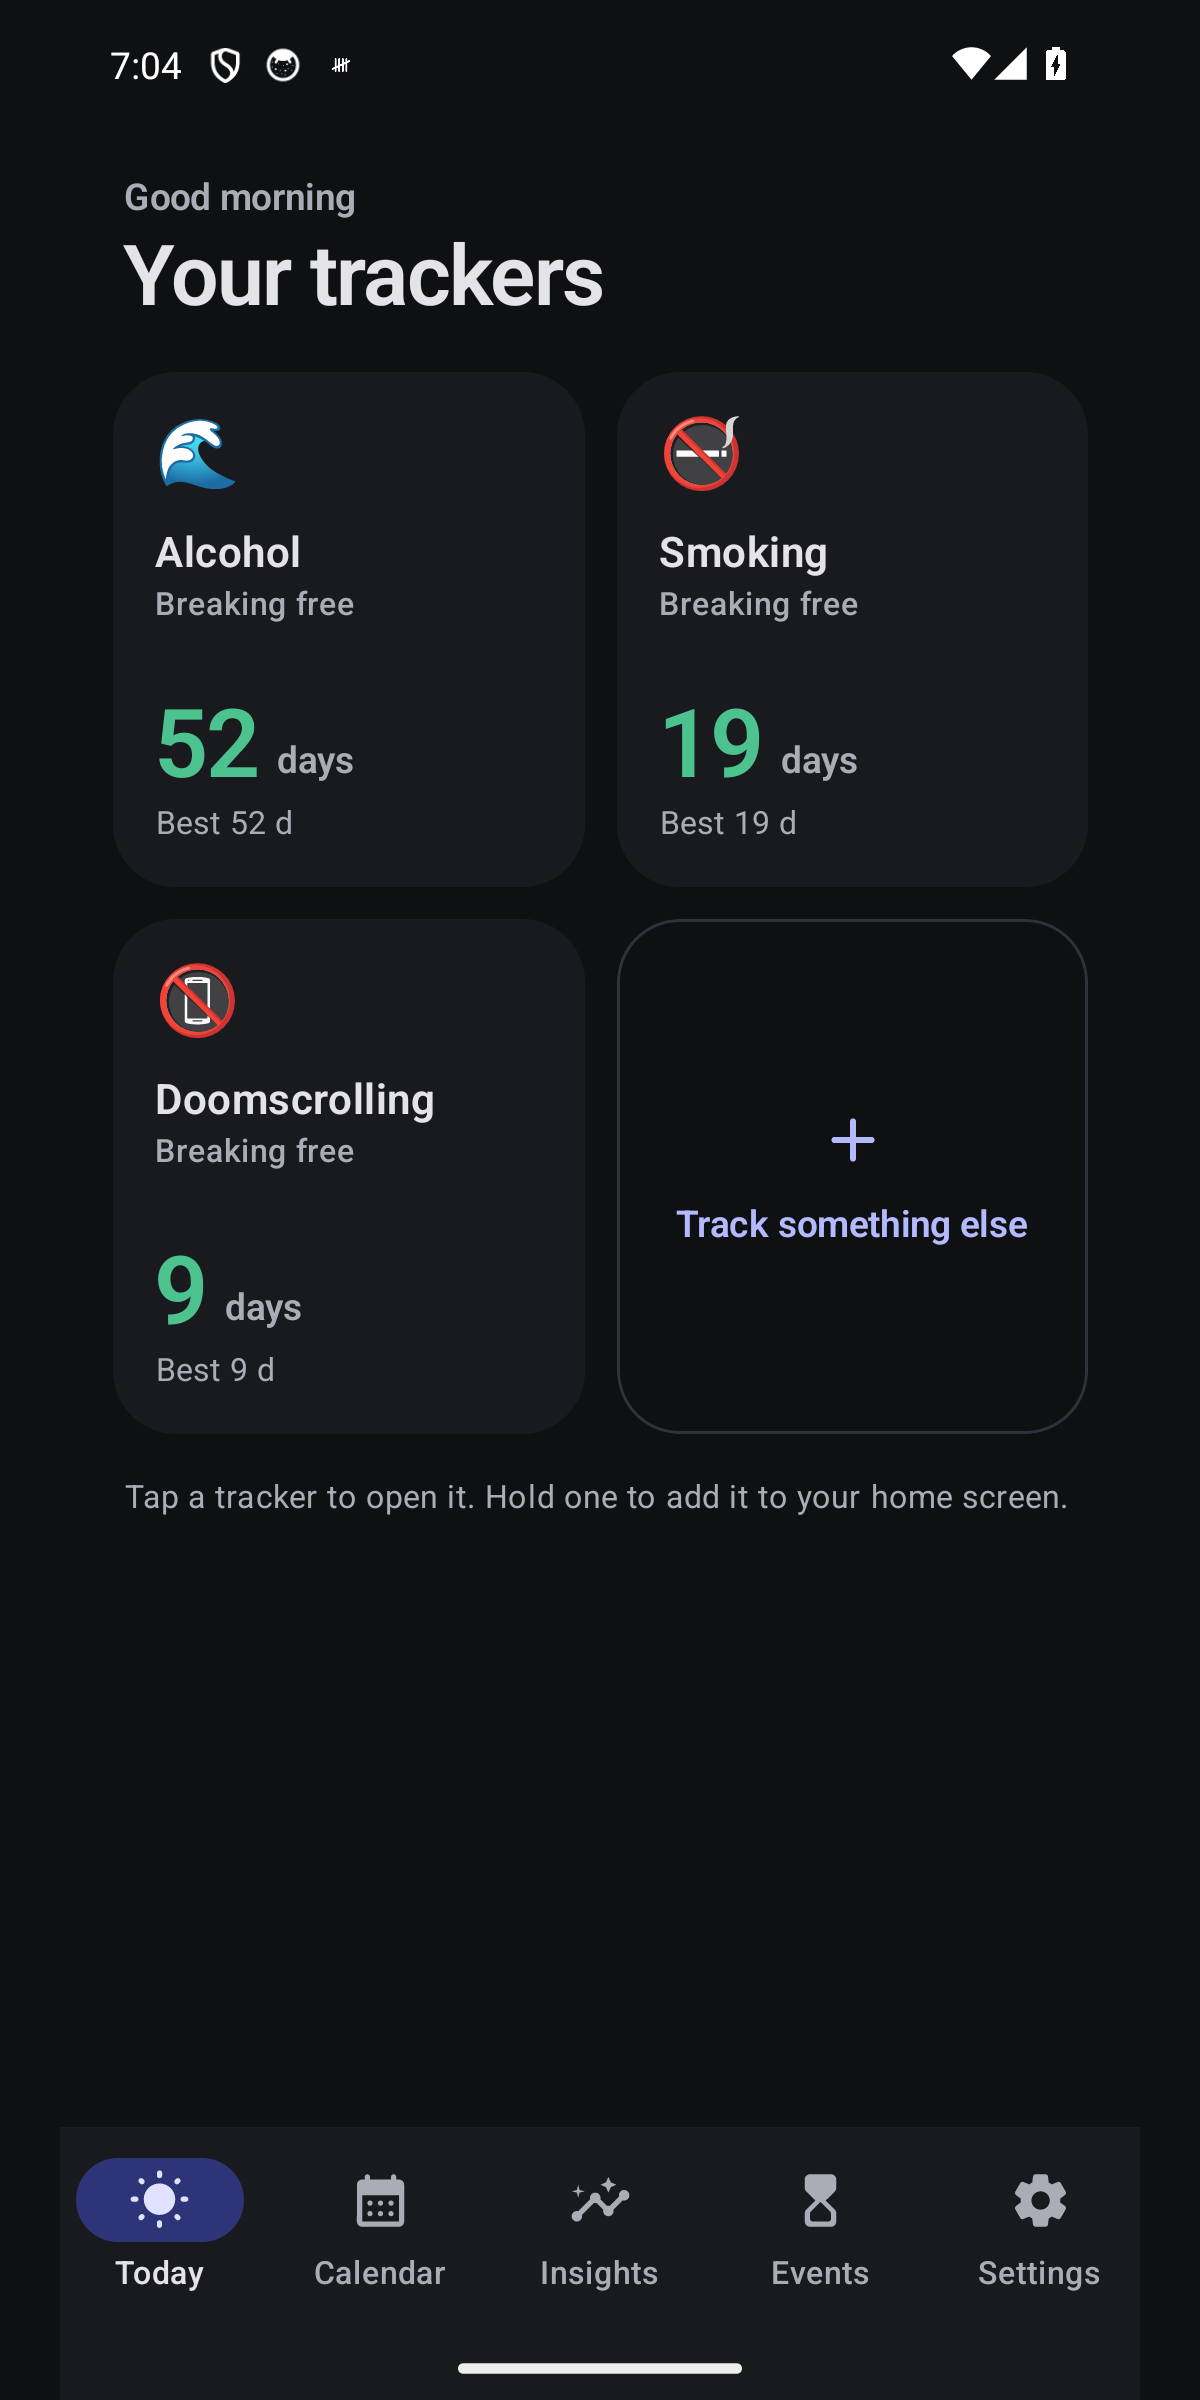
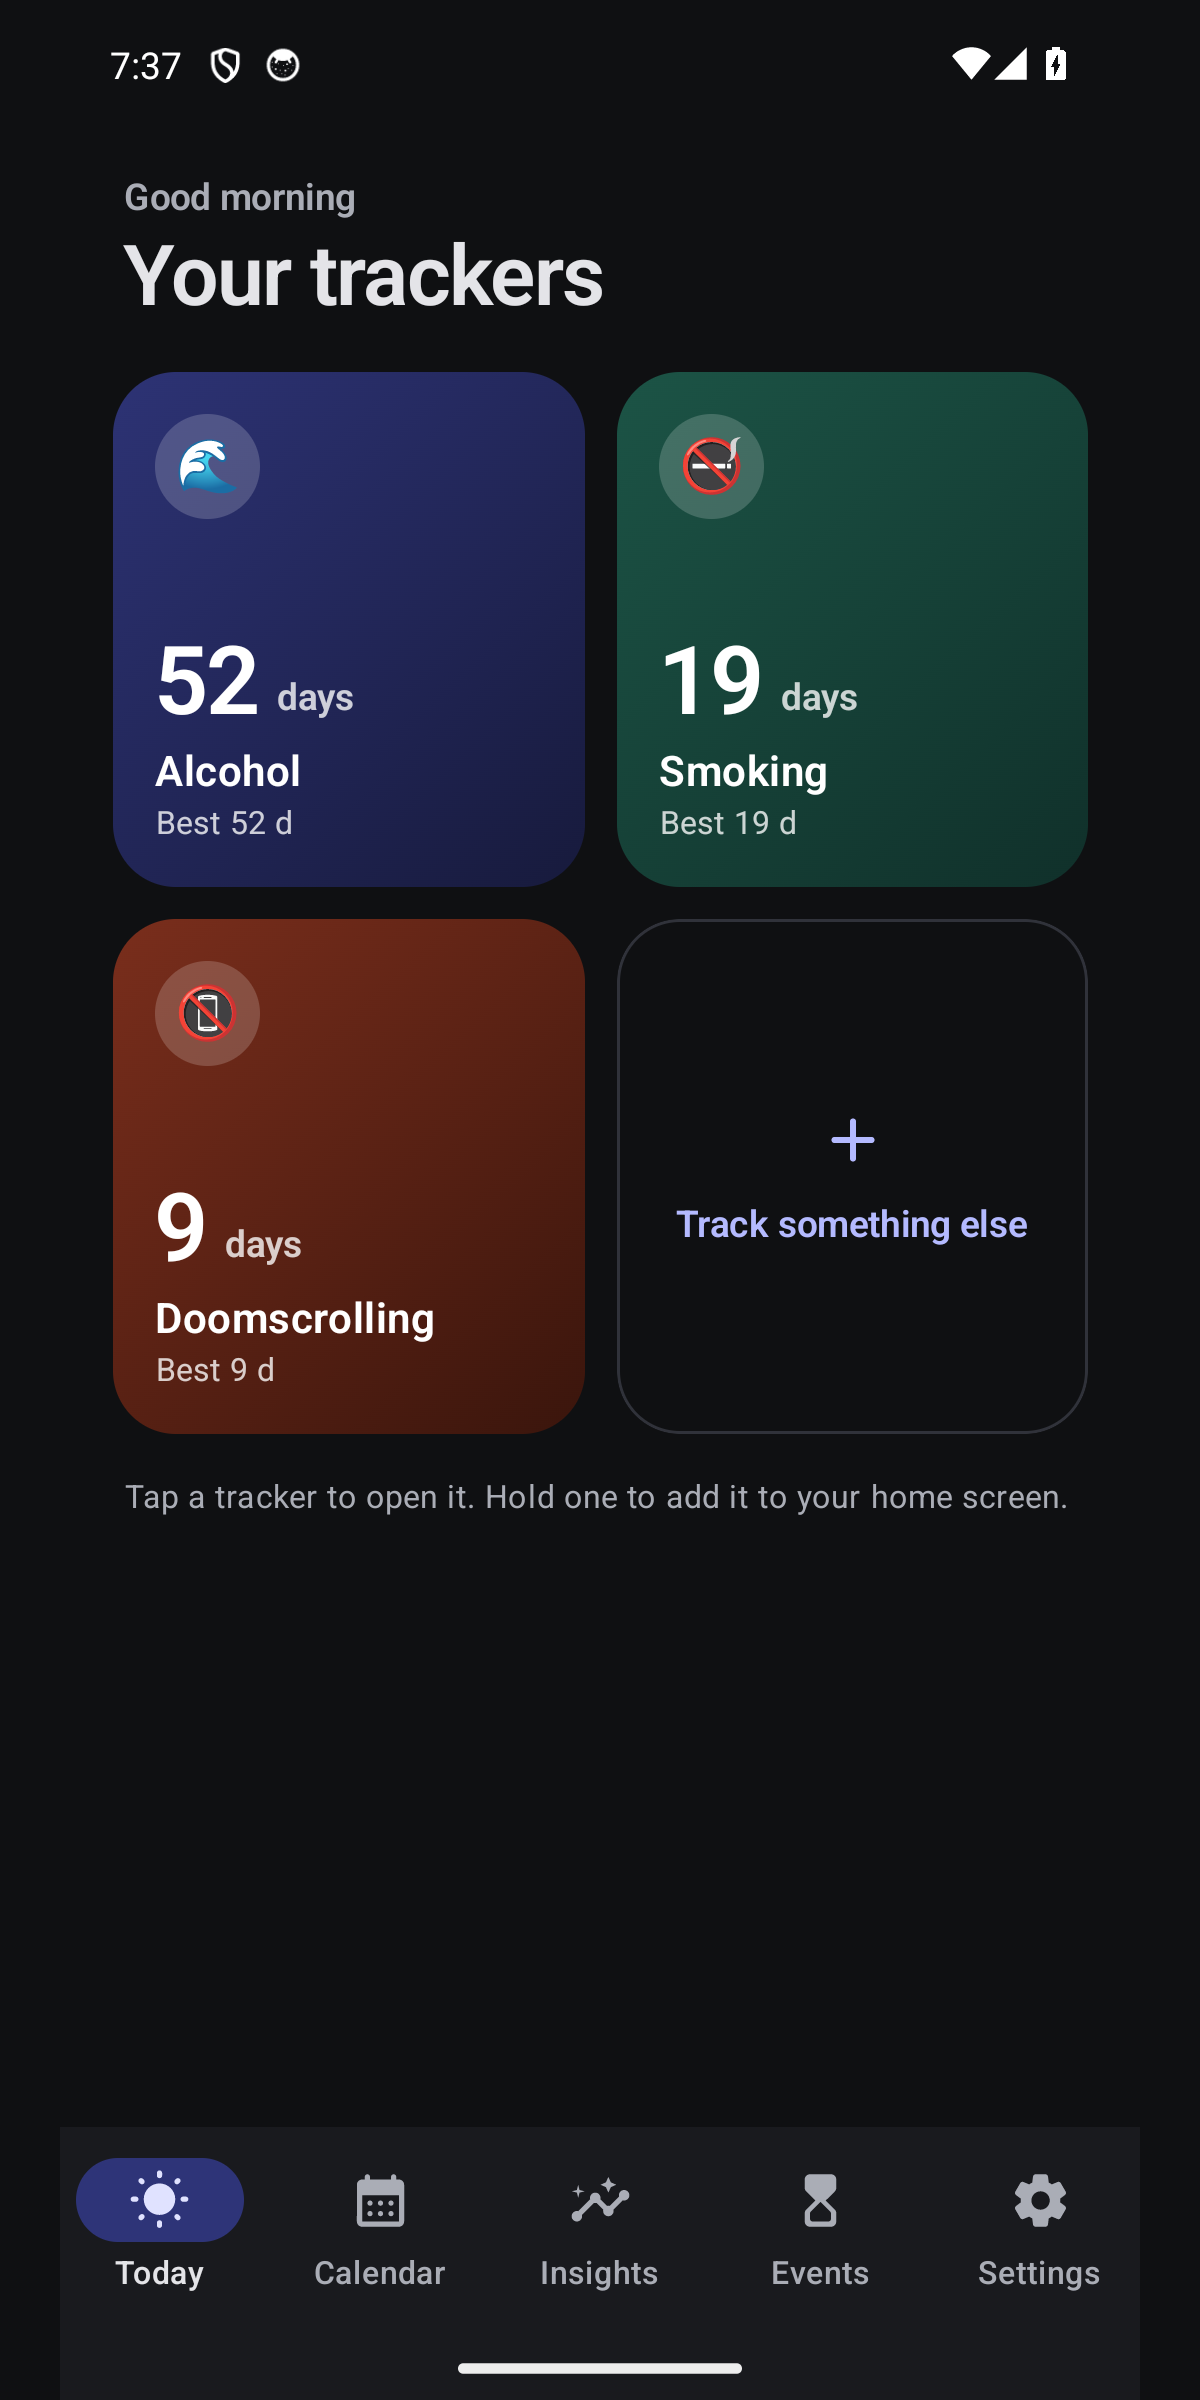
Lock entries asks every time: re-locks on leaving the Calendar or the app, no longer unlocked by the app lock; colourful tracker tiles (own accent gradient each, initial when trackers share an emoji)

Changed region(s): [[0.0925, 0.1562, 0.925, 0.625], [0.1233, 0.0, 0.1542, 0.0312]]

diff --git a/app/src/main/java/com/daymark/app/ui/dashboard/TrackersHome.kt b/app/src/main/java/com/daymark/app/ui/dashboard/TrackersHome.kt
@@ -2,7 +2,11 @@ package com.daymark.app.ui.dashboard
 
 import androidx.compose.foundation.BorderStroke
 import androidx.compose.foundation.ExperimentalFoundationApi
+import androidx.compose.foundation.background
 import androidx.compose.foundation.clickable
+import androidx.compose.foundation.shape.CircleShape
+import androidx.compose.ui.graphics.Brush
+import com.daymark.app.ui.theme.Accent
 import androidx.compose.foundation.combinedClickable
 import androidx.compose.foundation.interaction.MutableInteractionSource
 import androidx.compose.foundation.layout.Arrangement
@@ -19,7 +23,7 @@ import androidx.compose.foundation.layout.size
 import androidx.compose.foundation.lazy.grid.GridCells
 import androidx.compose.foundation.lazy.grid.GridItemSpan
 import androidx.compose.foundation.lazy.grid.LazyVerticalGrid
-import androidx.compose.foundation.lazy.grid.items
+import androidx.compose.foundation.lazy.grid.itemsIndexed
 import androidx.compose.foundation.shape.RoundedCornerShape
 import androidx.compose.material.icons.Icons
 import androidx.compose.material.icons.rounded.Add
@@ -95,6 +99,10 @@ fun TrackersHome(
         )
     }
 
+    val palette = remember(settings?.accent) { tileAccents(Accent.of(settings?.accent)) }
+    // A shared emoji (e.g. every tracker on the default) tells tiles apart poorly, so those show an initial instead.
+    val emojiCounts = remember(overview) { overview.groupingBy { it.habit.emoji }.eachCount() }
+
     LazyVerticalGrid(
         columns = GridCells.Adaptive(minSize = 156.dp),
         modifier = Modifier.fillMaxSize(),
@@ -116,9 +124,11 @@ fun TrackersHome(
                 Text("Your trackers", style = MaterialTheme.typography.headlineLarge)
             }
         }
-        items(overview, key = { it.habit.id }) { summary ->
+        itemsIndexed(overview, key = { _, it -> it.habit.id }) { i, summary ->
             TrackerTile(
                 summary,
+                accent = palette[i % palette.size],
+                showEmoji = emojiCounts[summary.habit.emoji] == 1,
                 onClick = { haptics.tick(); onOpen(summary.habit) },
                 onLongClick = {
                     haptics.tick()
@@ -141,63 +151,61 @@ fun TrackersHome(
 
 @OptIn(ExperimentalFoundationApi::class)
 @Composable
-private fun TrackerTile(summary: HabitSummary, onClick: () -> Unit, onLongClick: () -> Unit) {
+private fun TrackerTile(summary: HabitSummary, accent: Accent, showEmoji: Boolean, onClick: () -> Unit, onLongClick: () -> Unit) {
     val h = summary.habit
     val build = summary.build
+    val dark = DaymarkTheme.colors.isDark
+    val (top, bottom) = if (dark) accent.heroDark else accent.heroLight
     val src = remember { MutableInteractionSource() }
     val shape = RoundedCornerShape(24.dp)
-    Surface(
-        shape = shape,
-        color = MaterialTheme.colorScheme.surfaceContainer,
-        modifier = Modifier
+    val soft = Color.White.copy(alpha = 0.78f)
+    Box(
+        Modifier
             .fillMaxWidth()
             .height(196.dp)
             .pressScale(src, 0.96f)
             .clip(shape)
+            .background(Brush.linearGradient(listOf(Color(top), Color(bottom))))
             .combinedClickable(
                 interactionSource = src, indication = null,
                 onClickLabel = "Open ${h.displayName}", onClick = onClick,
                 onLongClickLabel = "Add to home screen", onLongClick = onLongClick,
             ),
     ) {
-        Column(Modifier.padding(16.dp)) {
+        Column(Modifier.fillMaxSize().padding(16.dp)) {
             Row(verticalAlignment = Alignment.CenterVertically) {
-                Text(h.emoji, fontSize = 26.sp, modifier = Modifier.weight(1f))
+                Box(
+                    Modifier.size(40.dp).clip(CircleShape).background(Color.White.copy(alpha = 0.18f)),
+                    contentAlignment = Alignment.Center,
+                ) {
+                    if (showEmoji) Text(h.emoji, fontSize = 20.sp)
+                    else Text(
+                        h.displayName.trim().take(1).uppercase(),
+                        style = MaterialTheme.typography.titleMedium.copy(fontWeight = FontWeight.Bold),
+                        color = Color.White,
+                    )
+                }
+                Spacer(Modifier.weight(1f))
                 if (build != null) {
                     Box(contentAlignment = Alignment.Center) {
                         ProgressRing(
                             progress = if (build.todayDone) 1f else build.todayProgress,
                             modifier = Modifier.size(34.dp),
                             strokeWidth = 4.dp,
+                            trackColor = Color.White.copy(alpha = 0.22f),
+                            color = Color.White,
                         )
-                        if (build.todayDone) {
-                            Icon(Icons.Rounded.Check, "Done today", Modifier.size(18.dp), tint = MaterialTheme.colorScheme.primary)
-                        }
+                        if (build.todayDone) Icon(Icons.Rounded.Check, "Done today", Modifier.size(18.dp), tint = Color.White)
                     }
                 }
             }
-            Spacer(Modifier.height(10.dp))
-            Text(
-                h.displayName,
-                style = MaterialTheme.typography.titleMedium,
-                maxLines = 1, overflow = TextOverflow.Ellipsis,
-            )
-            Text(
-                when {
-                    h.isBuild -> "Building"
-                    h.isReduce -> "Cutting down"
-                    else -> "Breaking free"
-                },
-                style = MaterialTheme.typography.labelMedium,
-                color = MaterialTheme.colorScheme.onSurfaceVariant,
-            )
             Spacer(Modifier.weight(1f))
             val days = if (build != null) build.currentStreak.toLong() else summary.stats.currentDays
             Row(verticalAlignment = Alignment.Bottom) {
                 Text(
                     days.toString(),
                     style = MaterialTheme.typography.displaySmall.copy(fontWeight = FontWeight.SemiBold),
-                    color = if (build == null) DaymarkTheme.colors.clean else MaterialTheme.colorScheme.primary,
+                    color = Color.White,
                 )
                 Spacer(Modifier.size(6.dp))
                 Text(
@@ -207,12 +215,19 @@ private fun TrackerTile(summary: HabitSummary, onClick: () -> Unit, onLongClick:
                         else -> "days"
                     },
                     style = MaterialTheme.typography.labelLarge,
-                    color = MaterialTheme.colorScheme.onSurfaceVariant,
+                    color = soft,
                     modifier = Modifier.padding(bottom = 6.dp),
                 )
             }
             Text(
+                h.displayName,
+                style = MaterialTheme.typography.titleMedium,
+                color = Color.White,
+                maxLines = 1, overflow = TextOverflow.Ellipsis,
+            )
+            Text(
                 when {
+                    build == null && h.isReduce -> "Cutting down · best ${summary.stats.longestDays} d"
                     build == null -> "Best ${summary.stats.longestDays} d"
                     build.todayDone -> "Done today"
                     !build.todayScheduled -> "Rest day"
@@ -220,11 +235,17 @@ private fun TrackerTile(summary: HabitSummary, onClick: () -> Unit, onLongClick:
                     else -> "Not yet today"
                 },
                 style = MaterialTheme.typography.bodySmall,
-                color = MaterialTheme.colorScheme.onSurfaceVariant,
+                color = soft,
                 maxLines = 1, overflow = TextOverflow.Ellipsis,
             )
         }
     }
+}
+
+/** Tile colours: the app's accent first, then the other colourful accents in a fixed, well-spread order. */
+internal fun tileAccents(appAccent: Accent): List<Accent> {
+    val order = listOf(Accent.DUSK, Accent.FOREST, Accent.SUNSET, Accent.OCEAN, Accent.ROSE, Accent.AMBER, Accent.VIOLET)
+    return listOf(appAccent) + order.filter { it != appAccent && it != Accent.GRAPHITE }
 }
 
 @Composable

diff --git a/app/src/main/java/com/daymark/app/ui/MainActivity.kt b/app/src/main/java/com/daymark/app/ui/MainActivity.kt
@@ -106,12 +106,12 @@ class MainActivity : FragmentActivity() {
         // Re-lock after the app has been in the background for a short grace period
         // (the grace keeps file pickers for backup/restore from forcing a re-unlock).
         ProcessLifecycleOwner.get().lifecycle.addObserver(object : DefaultLifecycleObserver {
-            override fun onStop(owner: LifecycleOwner) { backgroundedAt = SystemClock.elapsedRealtime() }
+            override fun onStop(owner: LifecycleOwner) {
+                backgroundedAt = SystemClock.elapsedRealtime()
+                com.daymark.app.ui.lock.EntryLock.unlocked = false // private entries ask again after any trip away
+            }
             override fun onStart(owner: LifecycleOwner) {
-                if (backgroundedAt != 0L && SystemClock.elapsedRealtime() - backgroundedAt > LOCK_GRACE_MS) {
-                    locked = true
-                    com.daymark.app.ui.lock.EntryLock.unlocked = false
-                }
+                if (backgroundedAt != 0L && SystemClock.elapsedRealtime() - backgroundedAt > LOCK_GRACE_MS) locked = true
             }
         })
 
@@ -140,7 +140,7 @@ class MainActivity : FragmentActivity() {
                             label = "gate",
                         ) { gate ->
                             when (gate) {
-                                Gate.LOCKED -> LockScreen(onUnlocked = { locked = false; com.daymark.app.ui.lock.EntryLock.unlocked = true })
+                                Gate.LOCKED -> LockScreen(onUnlocked = { locked = false })
                                 Gate.ONBOARDING -> OnboardingScreen { habit -> vm.completeOnboarding(habit) }
                                 Gate.LOADING -> Box(Modifier.fillMaxSize())
                                 Gate.APP -> DaymarkNav(vm, s, pendingRoute) { pendingRoute = null }
@@ -225,6 +225,9 @@ private fun DaymarkNav(vm: MainViewModel, settings: Settings, pendingRoute: Stri
             onRouteHandled()
         }
     }
+
+    // Leaving the Calendar locks private entries again, so every visit asks.
+    LaunchedEffect(route) { if (route != null && route in Tab.entries.map { it.route } && route != Tab.CALENDAR.route) com.daymark.app.ui.lock.EntryLock.unlocked = false }
 
     fun selectTab(tab: Tab) = nav.navigate(tab.route) {
         popUpTo(nav.graph.findStartDestination().id) { saveState = true }

diff --git a/app/src/main/java/com/daymark/app/ui/MainViewModel.kt b/app/src/main/java/com/daymark/app/ui/MainViewModel.kt
@@ -304,7 +304,10 @@ class MainViewModel(app: Application) : AndroidViewModel(app) {
     fun setDynamicColor(v: Boolean) = viewModelScope.launch { c.settings.setDynamicColor(v) }
     fun setAppLock(v: Boolean) = viewModelScope.launch { c.settings.setAppLock(v) }
     fun setHideInRecents(v: Boolean) = viewModelScope.launch { c.settings.setHideInRecents(v) }
-    fun setLockEntries(v: Boolean) = viewModelScope.launch { c.settings.setLockEntries(v) }
+    fun setLockEntries(v: Boolean) = viewModelScope.launch {
+        com.daymark.app.ui.lock.EntryLock.unlocked = false
+        c.settings.setLockEntries(v)
+    }
     fun setHaptics(v: Boolean) = viewModelScope.launch { c.settings.setHaptics(v) }
 
     /** [password] blank = plain JSON. */

diff --git a/app/src/main/java/com/daymark/app/ui/lock/EntryLock.kt b/app/src/main/java/com/daymark/app/ui/lock/EntryLock.kt
@@ -30,8 +30,8 @@ import com.daymark.app.ui.components.DaymarkCard
 
 /**
  * Optional lock for the private entries (slips, urges, "Not a slip" notes, journal).
- * Unlocked once per visit; [MainActivity] re-locks it after the same background grace as the app lock,
- * and unlocking the whole app (app lock) unlocks entries too.
+ * Unlocked for one Calendar visit only: [MainActivity] re-locks it whenever another tab is shown or the app
+ * goes to the background. It is separate from the app lock: unlocking the app never unlocks entries.
  */
 object EntryLock {
     var unlocked by mutableStateOf(false)

diff --git a/CLAUDE.md b/CLAUDE.md
@@ -106,7 +106,7 @@ Data flow: Room/DataStore `Flow` → `MainViewModel` `StateFlow` → screens use
 - **Event widget pin flow:** every in-app "Add to home screen" for events goes through `EventWidgetPinner.pinEventWidget(context, eventId?, onResult)` (`widget/EventWidgetPinner.kt`): event card menu, editor overflow, wizard "ready" sheet (eventId) and Events overflow "Add a widget" / Settings gallery Event row (null = queue mode, QueueKey=true, QueueNKey=1). It stores a `PendingEventPin` (SharedPreferences `event_pin_pending`, 2 min TTL) and calls `requestPinAppWidget` with `EventWidgetPinnedReceiver` as callback. The new widget claims the pending pin once via `claimPendingEventPin` (writes EventIdKey/QueueKey/QueueNKey/BgModeKey=FULL, never overwrites an already configured widget) from three places, whichever comes first: `EventWidgetConfigActivity` (skips its picker when it claims), the pin-success receiver, and `provideEventContent`'s first render. Unsupported launchers get the "Long-press your home screen..." snackbar via `vm.say`. Pure rules are tested in `PendingEventPinTest`.
 - **Add to home screen sheet** (`ui/widgets/AddToHomeSheet.kt`): long-press the Today circle (break `HeroCard`, build `BuildHero`) or a tracker chip, or tap the widgets icon in the Today header. It pins widgets bound to THAT tracker (HabitKey is claimed from `WidgetDefaults.habit`, so later selection changes don't affect them). Build habits are offered only Streak, Ring and Heatmap. A quiet hint (`HomeHint`, white 70% text overlaid on the hero card's bottom padding so nothing shifts: "Hold the circle to add it to your home screen") shows for 8 s in up to 5 app sessions from the first open (`Settings.homeHintShows`, not backed up; counted once per process via `HintSession.process`), and stops for good (-1) once the sheet is opened. The old `homeTipViews` key is unused but kept. Never names a tracker. The Widgets gallery has a quiet caption mentioning the gesture; the header widgets icon carries the content description. Taps on the circle/chips must keep working (`combinedClickable`).
 - **Today with several trackers:** when `overview.size > 1` the Today tab shows `TrackersHome` (`ui/dashboard/TrackersHome.kt`), a tile grid of every tracker (tap = select + open route `tracker`, which is `DashboardScreen(onBack=…)` without the chip row; long-press = Add to home sheet). With one tracker Today is the classic dashboard with chips.
-- **Lock entries** (`Settings.lockEntries`, Privacy section): the Calendar's per-day slips/urges/notes/journal (and the build calendar's journal) are replaced by `LockedEntriesCard` until `EntryLock` is unlocked via BiometricPrompt. It re-locks with the app-lock grace (20 s in background); unlocking the app lock also unlocks entries. Edit screens are only reachable from those cards.
+- **Lock entries** (`Settings.lockEntries`, Privacy section): the Calendar's per-day slips/urges/notes/journal (and the build calendar's journal) are replaced by `LockedEntriesCard` until `EntryLock` is unlocked via BiometricPrompt. It re-locks whenever another tab is shown or the app goes to the background (no grace), and is independent of the app lock (unlocking the app never unlocks entries). Edit screens are only reachable from those cards.
 - **Entry points:** shortcuts (`res/xml/shortcuts.xml`), the QS tile and notifications open `MainActivity` with `Routes.EXTRA`; `DaymarkNav` navigates once unlocked.
 - **App lock** re-locks after more than 20 s in the background (`LOCK_GRACE_MS`), so file pickers for backup don't force a re-unlock.
 - **Build habits:** `Habit.isBuild`. Progress is a `completions` row per habit per day (amount in the goal unit; goal 0 = check-off). Screens branch on kind (`BuildDashboard`, `BuildCalendar`, `BuildInsightsScreen`, `BuildProgressScreen`); `MainViewModel.stats` maps build streaks into `StreakStats` so streak-shaped UI and widgets still work. Kind can't be changed after creation. Never run break-habit maths (StreakEngine/relapses) on a build habit.
